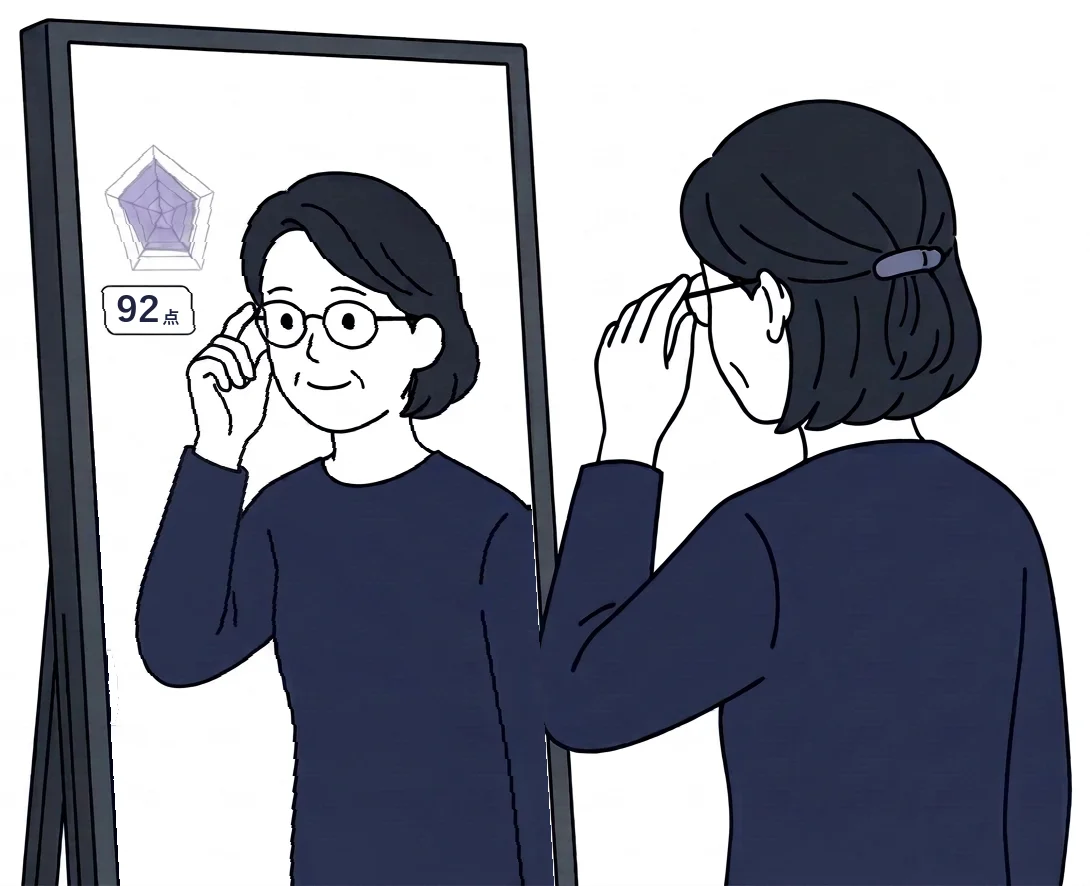
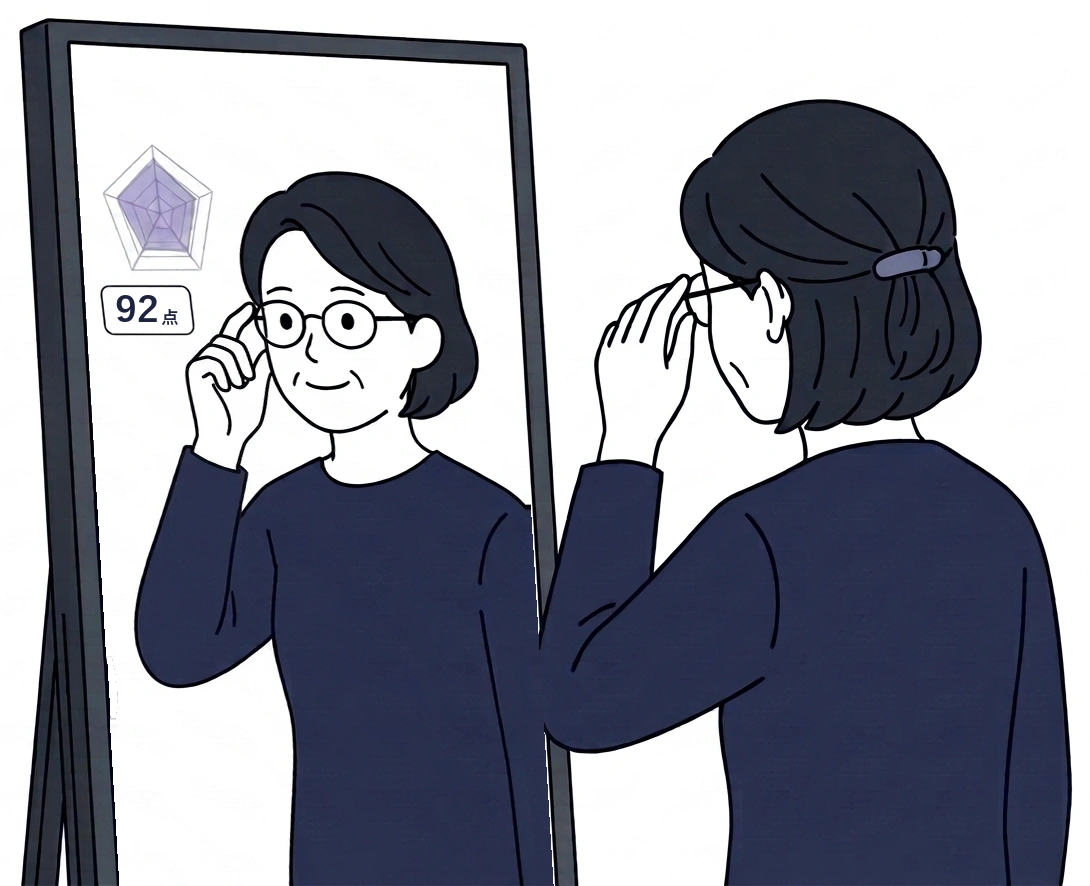
ミラーのイラストをなめらかに反転し直す（ギザギザ解消）

diff --git a/index.html b/index.html
@@ -4004,7 +4004,7 @@
           <p class="vzg-txt">疲れ目や肩こりは、合わないメガネが原因かも。NHKの番組でも紹介された測定機で確かめて、楽に見えるメガネをご提案します。</p>
         </div>
         <div class="vzg-card"><p class="vzg-tab">似合い度</p>
-          <div class="vzg-img vzg-img-ill vzg-scene"><img src="イメージ画像/winter_mirror_1090_886.webp" alt="AIミラーの前でメガネを試着し、鏡に似合い度の点数が出ているイラスト" width="1090" height="886" loading="lazy"><!-- 11/26 似合い度の拡大丸は外す（鏡の中の点数で十分） --></div><!-- 11/26 ChatGPTのイラストの鏡の中を左右反転して手の向きを直し、92点を入れた -->
+          <div class="vzg-img vzg-img-ill vzg-scene"><img src="イメージ画像/winter_mirror_1090_886.webp?v=2" alt="AIミラーの前でメガネを試着し、鏡に似合い度の点数が出ているイラスト" width="1090" height="886" loading="lazy"><!-- 11/26 似合い度の拡大丸は外す（鏡の中の点数で十分） --></div><!-- 11/26 ChatGPTのイラストの鏡の中を左右反転して手の向きを直し、92点を入れた -->
           <h3 class="vzg-h">似合い度を<em>点数</em>で視える化</h3>
           <p class="vzg-txt">AIミラーの前に立つだけ。ゲーム感覚で、高得点のメガネを探せます。</p>
         </div>
